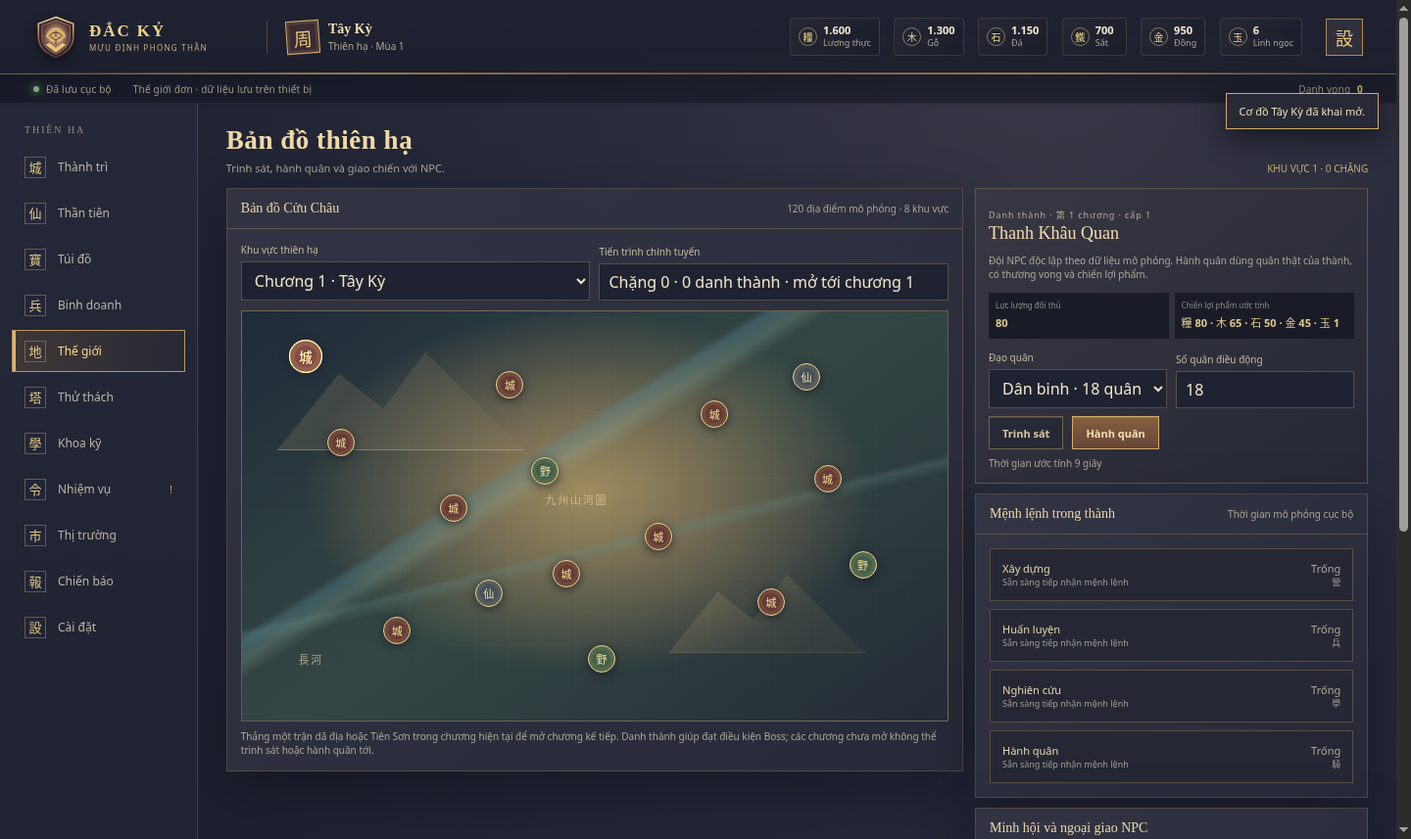
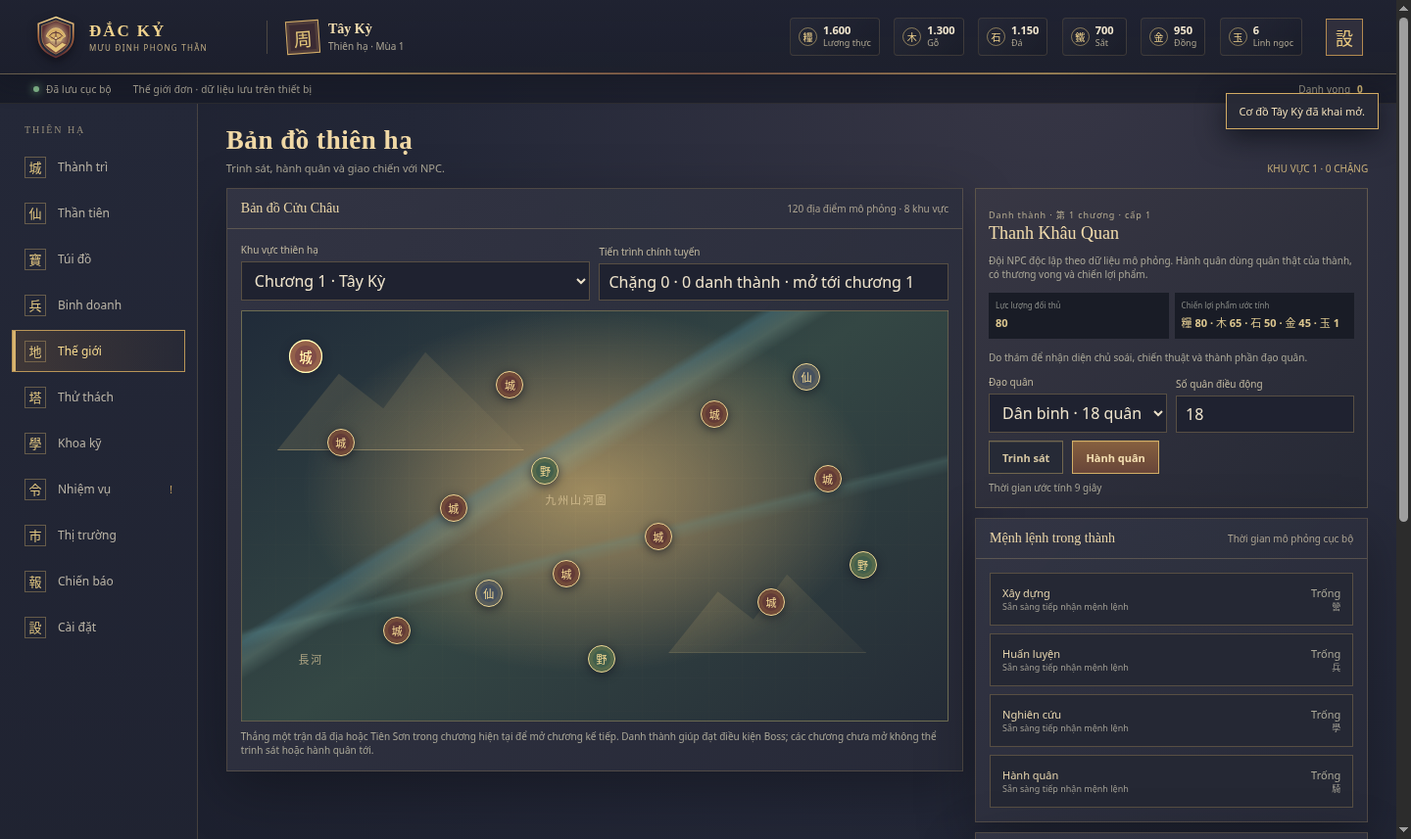
Add tactical NPC armies and scouting

Changed region(s): [[0.6875, 0.4247, 0.9688, 1.0], [0.8438, 0.6068, 0.9688, 0.7888]]

diff --git a/DackyMobile/src/ui.js b/DackyMobile/src/ui.js
@@ -211,11 +211,14 @@ function worldScreen(state, uiState) {
   const nodes = WORLD_NODES.filter(n=>n.chapter===chapter);
   const selected = nodes.find(n=>n.id===uiState.nodeId) || nodes[0];
   if (selected && uiState.nodeId !== selected.id) uiState.nodeId = selected.id;
+  const scouted=state.world.scouted.includes(selected.id);
+  const scoutCost=Math.max(2,Math.ceil(Math.max(4,12+selected.chapter*3-(state.levels.watch||0))*(1-Math.min(0.36,(state.technologies['tech-18']||0)*0.012))));
+  const enemyIntel=scouted?`<section class="recon-intel"><b>Chủ soái: ${esc(selected.enemy.commander)}</b><span>Đấu pháp: ${esc(selected.enemy.tactic.name)}</span><span>${selected.enemy.formation.map(row=>`${esc(TROOPS.find(t=>t.id===row.unitId)?.name||row.unitId)} ${fmt(row.count)}`).join(' · ')}</span></section>`:'<div class="tiny muted recon-hint">Do thám để nhận diện chủ soái, chiến thuật và thành phần đạo quân.</div>';
   const pins = nodes.map((n,i)=>`<button class="map-node ${n.isBoss?'boss':n.kind==='Danh thành'?'':n.kind==='Dã địa'?'field':'mountain'} ${state.world.captures.includes(n.id)?'captured':''} ${selected.id===n.id?'selected':''}" style="left:${n.x}%;top:${n.y}%" data-action="selectNode" data-node="${n.id}" title="${esc(n.name)} · lực lượng ${fmt(n.power)}">${n.isBoss?'王':n.kind==='Danh thành'?'城':n.kind==='Dã địa'?'野':'仙'}</button>`).join('');
   const armyOptions = Object.entries(state.army).filter(([,n])=>n>0).map(([id,count])=>`<option value="${id}">${esc(TROOPS.find(t=>t.id===id)?.name||id)} · ${fmt(count)} quân</option>`).join('');
   const selectedTroop = state.army[Object.keys(state.army)[0]] || 0;
   const bossLocked = selected.isBoss && !state.world.campaignComplete && (state.stats.victories < 20 || state.stats.citiesCaptured < 7);
-  const target = `<article class="target-card"><span class="target-kind">${selected.kind} · 第 ${selected.chapter} chương · cấp ${selected.level}</span><h2 class="target-name">${esc(selected.name)}</h2><p class="tiny muted">${selected.isBoss ? state.world.campaignComplete ? 'Trụ Vương đã bại trận. Triều Ca vẫn mở để tái chiến và chinh phục endgame.' : 'Đại Boss chiến dịch. Cần 20 trận thắng và 7 danh thành; thắng trận này sẽ mở kết cục Phong Thần.' : 'Đội NPC độc lập theo dữ liệu mô phỏng. Hành quân dùng quân thật của thành, có thương vong và chiến lợi phẩm.'}</p><div class="target-stats"><div class="target-stat"><small>Lực lượng đối thủ</small><b>${fmt(selected.power)}</b></div><div class="target-stat"><small>Chiến lợi phẩm ước tính</small><b>${costText(selected.loot)}</b></div></div><div class="field-row"><div class="field"><label for="march-unit">Đạo quân</label><select id="march-unit" class="input">${armyOptions || '<option>Chưa có quân</option>'}</select></div><div class="field"><label for="march-count">Số quân điều động</label><input id="march-count" class="input" type="number" min="1" max="${selectedTroop}" value="${Math.min(18,selectedTroop)||1}" inputmode="numeric"></div></div><div class="field-row" style="margin-top:8px">${button('scout','Trinh sát',state.resources.gold<12+selected.chapter*3,'button ghost','data-node="'+selected.id+'"')}${button('march',selected.isBoss&&state.world.campaignComplete?'Tái chiến Triều Ca':'Hành quân',!armyCount(state)||!!state.queues.march||Boolean(bossLocked),'button','data-node="'+selected.id+'"')}</div><div class="tiny muted" style="margin-top:7px">${selected.isBoss&&bossLocked?`Tiến trình mở khóa: ${Math.min(20,state.stats.victories)} / 20 thắng · ${Math.min(7,state.stats.citiesCaptured)} / 7 thành.`:state.world.scouted.includes(selected.id)?'Đã do thám. ':''}${state.queues.march?'Đội quân hiện đang hành quân.':bossLocked?'': 'Thời gian ước tính '+formatDuration(Math.max(7000,(7+selected.chapter*1.7)*1000))}</div></article>`;
+  const target = `<article class="target-card"><span class="target-kind">${selected.kind} · 第 ${selected.chapter} chương · cấp ${selected.level}</span><h2 class="target-name">${esc(selected.name)}</h2><p class="tiny muted">${selected.isBoss ? state.world.campaignComplete ? 'Trụ Vương đã bại trận. Triều Ca vẫn mở để tái chiến và chinh phục endgame.' : 'Đại Boss chiến dịch. Cần 20 trận thắng và 7 danh thành; thắng trận này sẽ mở kết cục Phong Thần.' : 'Đội NPC độc lập theo dữ liệu mô phỏng. Hành quân dùng quân thật của thành, có thương vong và chiến lợi phẩm.'}</p><div class="target-stats"><div class="target-stat"><small>Lực lượng đối thủ</small><b>${fmt(selected.power)}</b></div><div class="target-stat"><small>Chiến lợi phẩm ước tính</small><b>${costText(selected.loot)}</b></div></div>${enemyIntel}<div class="field-row"><div class="field"><label for="march-unit">Đạo quân</label><select id="march-unit" class="input">${armyOptions || '<option>Chưa có quân</option>'}</select></div><div class="field"><label for="march-count">Số quân điều động</label><input id="march-count" class="input" type="number" min="1" max="${selectedTroop}" value="${Math.min(18,selectedTroop)||1}" inputmode="numeric"></div></div><div class="field-row" style="margin-top:8px">${button('scout',scouted?'Do thám lại':'Trinh sát',state.resources.gold<scoutCost,'button ghost','data-node="'+selected.id+'"')}${button('march',selected.isBoss&&state.world.campaignComplete?'Tái chiến Triều Ca':'Hành quân',!armyCount(state)||!!state.queues.march||Boolean(bossLocked),'button','data-node="'+selected.id+'"')}</div><div class="tiny muted" style="margin-top:7px">${selected.isBoss&&bossLocked?`Tiến trình mở khóa: ${Math.min(20,state.stats.victories)} / 20 thắng · ${Math.min(7,state.stats.citiesCaptured)} / 7 thành.`:scouted?'Đã do thám. ':''}${state.queues.march?'Đội quân hiện đang hành quân.':bossLocked?'': 'Thời gian ước tính '+formatDuration(Math.max(7000,(7+selected.chapter*1.7)*1000))}</div></article>`;
   return `<div class="world-layout"><section class="panel">${subheading('Bản đồ Cửu Châu','120 địa điểm mô phỏng · 8 khu vực')}<div class="panel-body"><div class="field-row" style="margin-bottom:10px"><div class="field"><label for="world-chapter">Khu vực thiên hạ</label><select id="world-chapter" class="input" data-change="chapter">${Array.from({length:8},(_,i)=>`<option value="${i+1}" ${chapter===i+1?'selected':''} ${i+1>unlocked?'disabled':''}>Chương ${i+1} · ${['Tây Kỳ','Thanh Khâu','Vân Mộng','Cửu Lê','Lạc Thủy','Bắc Minh','Phong Lăng','Quy Khư'][i]}${i+1>unlocked?' · chưa mở':''}</option>`).join('')}</select></div><div class="field"><label>Tiến trình chính tuyến</label><div class="input">Chặng ${fmt(state.world.storyStage)} · ${state.world.captures.length} danh thành · mở tới chương ${unlocked}</div></div></div><div class="world-map"><div class="map-river"></div><div class="map-mountain"></div><div class="map-mountain m2"></div><span class="map-label" style="left:43%;top:44%">九州山河圖</span><span class="map-label" style="left:8%;top:83%">長河</span>${pins}</div><div class="tiny muted" style="margin-top:8px">Thắng một trận dã địa hoặc Tiên Sơn trong chương hiện tại để mở chương kế tiếp. Danh thành giúp đạt điều kiện Boss; các chương chưa mở không thể trinh sát hoặc hành quân tới.</div></div></section><aside class="map-side">${target}${queuePanel(state,Date.now())}<section class="panel">${subheading('Ngoại giao và liên minh NPC')}<div class="panel-body"><div class="hint">V1.0 ưu tiên chơi đơn ngoại tuyến. Thương nhân, bang hội và đối thủ là NPC mô phỏng; không có người chơi trực tiếp hoặc dịch vụ nhiều người.</div><div class="field-row" style="margin-top:9px">${button('view-market','Giao thương NPC',false,'button small')}${button('view-quests','Chính tuyến',false,'button ghost small')}</div></div></section></aside></div>`;
 }
 
@@ -261,7 +264,10 @@ function marketScreen(state) {
 }
 
 function reportsScreen(state) {
-  const items=state.reports.map(r=>`<article class="report-card"><div class="report-head"><b>${esc(r.target||'Chiến dịch')}</b><span class="report-result ${r.victory?'win':'loss'}">${r.victory?'Đại thắng':'Rút lui'}</span></div><div class="report-body"><div class="report-tactics"><span class="tag">${r.type==='duel'?'Đấu pháp thần tiên':'Hành quân quân đội'}</span><span class="tag">Sức ta ${fmt(r.ownPower||0)}</span><span class="tag">Đối thủ ${fmt(r.enemyPower||0)}</span>${r.rounds?.length?`<span class="tag">${r.rounds.length} hiệp</span>`:''}</div>${r.heroSkills?.length?`<p>Pháp môn đội hình: ${r.heroSkills.map(esc).join(' · ')}</p>`:''}<p>Quân điều động: ${Object.entries(r.troopsSent||{}).map(([id,n])=>`${esc(TROOPS.find(t=>t.id===id)?.name||id)} ${fmt(n)}`).join(' · ')||'Đội hình thần tiên'}.</p><p>Thương vong: ${Object.entries(r.dead||{}).map(([id,n])=>`${esc(TROOPS.find(t=>t.id===id)?.name||id)} ${fmt(n)}`).join(' · ')||'không'}${Object.values(r.wounded||{}).reduce((a,n)=>a+n,0)?` · bị thương ${fmt(Object.values(r.wounded).reduce((a,n)=>a+n,0))}`:''}</p><p>Chiến lợi phẩm: ${r.loot&&Object.keys(r.loot).length?costText(r.loot):'không có'} · ${r.evidence||CONTENT_EVIDENCE.status}</p>${r.rounds?.length?`<details><summary>Diễn biến ${r.rounds.length} hiệp</summary><p>${r.rounds.map(x=>`Hiệp ${x.round}: ta gây ${fmt(x.ownDamage)}, chịu ${fmt(x.enemyDamage)}; sĩ khí ${x.ownMorale}%.`).join('<br>')}</p></details>`:''}</div></article>`).join('');
+  const items=state.reports.map(r=>{
+    const enemyUnits=(rows,key)=>Object.entries(rows||{}).map(([id,n])=>`${esc(TROOPS.find(t=>t.id===id)?.name||id)} ${fmt(n)}`).join(' · ')||'không';
+    return `<article class="report-card"><div class="report-head"><b>${esc(r.target||'Chiến dịch')}</b><span class="report-result ${r.victory?'win':'loss'}">${r.victory?'Đại thắng':'Rút lui'}</span></div><div class="report-body"><div class="report-tactics"><span class="tag">${r.type==='duel'?'Đấu pháp thần tiên':'Hành quân quân đội'}</span><span class="tag">Sức ta ${fmt(r.ownPower||0)}</span><span class="tag">Đối thủ ${fmt(r.enemyPower||0)}</span>${r.rounds?.length?`<span class="tag">${r.rounds.length} hiệp</span>`:''}</div>${r.heroSkills?.length?`<p>Pháp môn đội hình: ${r.heroSkills.map(esc).join(' · ')}</p>`:''}${r.enemyCommander?`<p>Chủ soái NPC: ${esc(r.enemyCommander)} · chiến thuật ${esc(r.enemyTactic||'dã chiến')}</p><p>Đội hình địch: ${enemyUnits(Object.fromEntries((r.enemyFormation||[]).map(row=>[row.unitId,row.count])))}</p><p>Tổn thất địch: ${enemyUnits(r.enemyCasualties)}</p>`:''}<p>Quân điều động: ${Object.entries(r.troopsSent||{}).map(([id,n])=>`${esc(TROOPS.find(t=>t.id===id)?.name||id)} ${fmt(n)}`).join(' · ')||'Đội hình thần tiên'}.</p><p>Thương vong: ${enemyUnits(r.dead)}${Object.values(r.wounded||{}).reduce((a,n)=>a+n,0)?` · bị thương ${fmt(Object.values(r.wounded).reduce((a,n)=>a+n,0))}`:''}</p><p>Chiến lợi phẩm: ${r.loot&&Object.keys(r.loot).length?costText(r.loot):'không có'} · ${r.evidence||CONTENT_EVIDENCE.status}</p>${r.rounds?.length?`<details><summary>Diễn biến ${r.rounds.length} hiệp</summary><p>${r.rounds.map(x=>`Hiệp ${x.round}: ta gây ${fmt(x.ownDamage)}, chịu ${fmt(x.enemyDamage)}; sĩ khí ${x.ownMorale}%${x.enemyMorale!==undefined?` · địch ${x.enemyMorale}%`:''}.`).join('<br>')}</p></details>`:''}</div></article>`;
+  }).join('');
   return `<section class="panel">${subheading(`Chiến báo · ${state.reports.length} báo cáo`,'Phân giải trận đấu mô phỏng, lưu cục bộ')}<div class="panel-body"><div class="hint" style="margin-bottom:10px">Tất cả trận chiến được tính cục bộ và ghi vào save; thương vong, thương binh, thưởng và danh vọng chỉ áp dụng một lần khi hàng đợi hành quân hoàn tất.</div><div class="report-list">${items||'<div class="empty-state"><strong>Chưa có chiến báo</strong>Hành quân tới dã địa hoặc khiêu chiến tháp để bắt đầu.</div>'}</div></div></section>`;
 }
 

diff --git a/DackyMobile/src/engine.js b/DackyMobile/src/engine.js
@@ -367,9 +367,12 @@ function resolveArmyCombat(state, node, troops, seed) {
   const heroList = state.heroes.filter(h => h.assigned).slice(0, 3);
   const heroProfile=heroCombatProfile(heroList);
   const troopRows = Object.entries(troops).map(([id, count]) => ({ unit: TROOPS.find(t => t.id === id), count })).filter(x => x.unit && x.count > 0);
+  const enemyRows=(node.enemy?.formation||[]).map(row=>({unit:TROOPS.find(t=>t.id===row.unitId),count:row.count})).filter(row=>row.unit&&row.count>0);
   const total = troopRows.reduce((n, row) => n + row.count, 0);
   const roles = troopRows.map(row => row.unit.role);
+  const enemyRoles=enemyRows.map(row=>row.unit.role);
   const countered = troopRows.filter(row => roles.includes(row.unit.counter)).length;
+  const enemyCountered=enemyRows.filter(row=>enemyRoles.includes(row.unit.counter)).length;
   const formationTech=state.technologies['tech-15']||0;
   const formationBonus=1+Math.min(0.42,formationTech*0.003+countered*(0.025+formationTech*0.003));
   const heroBonus = heroList.reduce((n, h) => n + heroPower(h, state), 0) * 0.55;
@@ -377,18 +380,28 @@ function resolveArmyCombat(state, node, troops, seed) {
   const treatyBonus=state.world.treaties.includes(node.id)?0.88:1;
   const enemyPower = Math.max(80, node.power * (1 + Math.max(0, node.chapter - 1) * 0.035) * treatyBonus);
   const initiative = troopRows.reduce((n, row) => n + row.unit.speed * row.count, 0) / Math.max(1, total);
+  const enemyTotal=enemyRows.reduce((n,row)=>n+row.count,0);
+  const enemyInitiative=enemyRows.reduce((n,row)=>n+row.unit.speed*row.count,0)/Math.max(1,enemyTotal);
+  const tactics={
+    ambush:{opening:0.2}, fortress:{health:1.18,defense:0.06}, charge:{opening:0.18},
+    arcane:{attack:0.09}, mandate:{health:1.14,attack:0.08,defense:0.04}
+  };
+  const tactic=tactics[node.enemy?.tactic?.id]||{};
+  const enemyHealthBase=enemyPower*(1+Math.min(0.16,enemyCountered*0.025))*(tactic.health||1);
   const rounds = [];
   let ownHealth = ownPower * (1 + state.morale / 500 + heroProfile.bonuses.formation);
-  let enemyHealth = enemyPower;
+  let enemyHealth = enemyHealthBase;
   let round = 0;
   while (ownHealth > 0 && enemyHealth > 0 && round < 6) {
     round++;
-    const ownDamage = Math.max(1, ownPower * (0.19 + rng() * 0.11) * (1+heroProfile.bonuses.attack+(round===1?heroProfile.bonuses.opening:0)) * (round === 1 && initiative > 10 ? 1.13 : 1));
+    const enemyDefense=Math.min(0.24,enemyCountered*0.025+(tactic.defense||0));
+    const ownDamage = Math.max(1, ownPower * (0.19 + rng() * 0.11) * (1+heroProfile.bonuses.attack+(round===1?heroProfile.bonuses.opening:0)) * (1-enemyDefense) * (round === 1 && initiative > 10 ? 1.13 : 1));
     const researchDefense=Math.min(0.12,(state.technologies['tech-11']||0)*0.004);
-    const enemyDamage = Math.max(1, enemyPower * (0.17 + rng() * 0.12) * Math.max(0.55,1-heroProfile.bonuses.defense-researchDefense) * (round === 1 && initiative < 6 ? 1.12 : 1));
+    const npcOpening=round===1&&enemyInitiative>initiative?(tactic.opening||0.1):0;
+    const enemyDamage = Math.max(1, enemyPower * (0.17 + rng() * 0.12) * (1+(tactic.attack||0)+npcOpening) * Math.max(0.55,1-heroProfile.bonuses.defense-researchDefense) * (round === 1 && initiative < 6 ? 1.12 : 1));
     enemyHealth -= ownDamage;
     ownHealth -= enemyDamage;
-    rounds.push({ round, ownDamage: Math.round(ownDamage), enemyDamage: Math.round(enemyDamage), ownMorale: Math.max(0, Math.round(ownHealth / ownPower * 100)) });
+    rounds.push({ round, ownDamage: Math.round(ownDamage), enemyDamage: Math.round(enemyDamage), ownMorale: Math.max(0, Math.round(ownHealth / ownPower * 100)), enemyMorale:Math.max(0,Math.round(enemyHealth/enemyHealthBase*100)) });
   }
   const victory = enemyHealth <= 0 || (ownHealth > enemyHealth * 0.72 && ownHealth > 0);
   const casualtyRatio = clamp((victory ? 0.035 + (enemyPower / ownPower) * 0.07 : 0.24 + rng() * 0.2) - Math.min(0.04,(state.levels.wall||0)*0.001), 0.025, 0.62);
@@ -399,7 +412,12 @@ function resolveArmyCombat(state, node, troops, seed) {
     if (lost) dead[row.unit.id] = lost - injured;
     if (injured) wounded[row.unit.id] = injured;
   }
-  return { victory, ownPower: Math.round(ownPower), enemyPower: Math.round(enemyPower), rounds, dead, wounded, total, heroNames: heroList.map(h => HEROES.find(def => def.id === h.id)?.name || h.id), heroSkills:heroProfile.names, skillBonuses:heroProfile.bonuses };
+  const enemyCasualtyRatio=clamp(victory?0.22+ownPower/Math.max(1,enemyPower)*0.13:0.08+rng()*0.05,0.06,0.55);
+  const enemyCasualties=Object.fromEntries(enemyRows.map(row=>[row.unit.id,Math.min(row.count,Math.floor(row.count*enemyCasualtyRatio*(0.8+rng()*0.4))) ]).filter(([,count])=>count>0));
+  return { victory, ownPower: Math.round(ownPower), enemyPower: Math.round(enemyPower), rounds, dead, wounded, total,
+    enemyCommander:node.enemy?.commander||'Đội quân NPC',enemyTactic:node.enemy?.tactic?.name||'Đội hình dã chiến',
+    enemyFormation:enemyRows.map(row=>({unitId:row.unit.id,count:row.count})),enemyCasualties,
+    heroNames: heroList.map(h => HEROES.find(def => def.id === h.id)?.name || h.id), heroSkills:heroProfile.names, skillBonuses:heroProfile.bonuses };
 }
 
 function settleMarch(state, q, now) {
@@ -759,7 +777,7 @@ export function doAction(state, action, now = Date.now()) {
       const scoutBaseCost=Math.max(4,12+node.chapter*3-(s.levels.watch||0));
       debit(s,{gold:Math.max(2,Math.ceil(scoutBaseCost*(1-Math.min(0.36,(s.technologies['tech-18']||0)*0.012))))});
       if (!s.world.scouted.includes(node.id)) s.world.scouted.push(node.id);
-      note(s, `Thám báo đã ghi nhận lực lượng khoảng ${Math.floor(node.power / 10) * 10} tại ${node.name}.`);
+      note(s, `Thám báo xác định ${node.enemy.commander} · ${node.enemy.tactic.name} · ${node.enemy.formation.map(row=>`${TROOPS.find(t=>t.id===row.unitId)?.name||row.unitId} ${row.count}`).join(', ')} tại ${node.name}.`);
       break;
     }
     case 'claimQuest': {

diff --git a/DackyMobile/src/catalog.js b/DackyMobile/src/catalog.js
@@ -190,6 +190,35 @@ export const QUESTS = Object.freeze([...campaignQuests,...longTailQuests,campaig
 
 const regionPrefixes = ['Thanh Khâu','Vân Mộng','Cửu Lê','Lạc Thủy','Bắc Minh','Tây Kỳ','Phong Lăng','Quy Khư','Hoàng Hà','Thái Hư','Tử Tiêu','Huyền Cơ','Bạch Lộc','Thương Sơn','Côn Ngô'];
 const regionSuffixes = ['Quan','Trấn','Đài','Cốc','Sơn','Bến','Lĩnh','Thành'];
+const npcOfficerNames=['Ân Thủ Nghĩa','Bào Huyền Chân','Bình Trấn Hải','Cao Cảnh Đức','Cố Trường Phong','Cung Tử An','Đào Như Sơn','Đổng Huyền Minh','Dư Bạch Thạch','Đường Tĩnh Viễn','Hàn Vân Khách','Hồ Ngọc Đường','Hoa Tử Hư','Khâu Trọng Lân','Lâm Tùng Hạc','Mã Thiên Hành','Mạnh Huyền Sách','Ngụy Thanh Sơn','Phùng Dạ Bạch','Tạ Linh Quân','Tần Vô Cữu','Vương Phá Quân','Trịnh Minh Đạo','Chu Hạc Niên'];
+const npcTactics=Object.freeze({
+  ambush:'Phục kích', fortress:'Thủ thành', charge:'Kỵ trận xung phong', arcane:'Pháp trận', mandate:'Hôn ám triều cương'
+});
+const npcRoles=Object.freeze({
+  'Danh thành':['bộ binh','xạ thủ','công thành'],
+  'Dã địa':['kỵ binh','trinh sát','xạ thủ'],
+  'Tiên sơn':['đạo binh','bộ binh','xạ thủ'],
+  'Boss chiến dịch':['bộ binh','kỵ binh','xạ thủ','đạo binh','công thành']
+});
+function generatedNpcForce(index,chapter,kind,power){
+  const targetTier=Math.min(7,Math.ceil(chapter*7/8));
+  const roles=npcRoles[kind];
+  const targetPower=Math.max(80,power*(1+Math.max(0,chapter-1)*0.035));
+  const weights=kind==='Boss chiến dịch'?[0.31,0.23,0.18,0.18,0.1]:kind==='Danh thành'?[0.43,0.34,0.23]:[0.42,0.34,0.24];
+  const formation=roles.map((role,slot)=>{
+    let choices=TROOPS.filter(unit=>unit.role===role&&unit.tier<=targetTier);
+    if(!choices.length)choices=TROOPS.filter(unit=>unit.role===role);
+    const highestTier=Math.max(...choices.map(unit=>unit.tier));
+    choices=choices.filter(unit=>unit.tier===highestTier);
+    const unit=choices[(index+slot*5+chapter)%choices.length];
+    const unitPower=unit.attack+unit.defense*0.85+unit.morale*0.08;
+    return {unitId:unit.id,count:Math.max(1,Math.round(targetPower*weights[slot]/unitPower))};
+  });
+  const tacticId=kind==='Boss chiến dịch'?'mandate':kind==='Danh thành'?'fortress':kind==='Dã địa'?['ambush','charge','arcane'][index%3]:['arcane','ambush','fortress'][index%3];
+  const title=kind==='Danh thành'?'Trấn thủ':kind==='Dã địa'?'Thảo khấu':kind==='Tiên sơn'?'Thủ sơn tiên trưởng':'Đại vương';
+  const commander=kind==='Boss chiến dịch'?'Đế Tân · Trụ Vương':`${title} ${npcOfficerNames[(index*7+chapter)%npcOfficerNames.length]}`;
+  return {commander,tactic:{id:tacticId,name:npcTactics[tacticId]},formation};
+}
 export const WORLD_NODES = Object.freeze(Array.from({ length: 120 }, (_, i) => {
   const chapterIndex=Math.floor(i/15);
   const localIndex=i%15;
@@ -201,9 +230,11 @@ export const WORLD_NODES = Object.freeze(Array.from({ length: 120 }, (_, i) => {
   const chapter = chapterIndex + 1;
   const generatedName = `${regionPrefixes[Math.floor(i / regionSuffixes.length) % regionPrefixes.length]} ${regionSuffixes[i % regionSuffixes.length]}`;
   const name = isBoss ? 'Triều Ca · Trụ Vương' : generatedName;
-  return { id: `node-${String(i + 1).padStart(3,'0')}`, name, kind: isBoss ? 'Boss chiến dịch' : isCity ? 'Danh thành' : isField ? 'Dã địa' : 'Tiên sơn', isBoss, chapter,
+  const kind=isBoss?'Boss chiến dịch':isCity?'Danh thành':isField?'Dã địa':'Tiên sơn';
+  const power=isBoss?8400:80+i*34;
+  return { id: `node-${String(i + 1).padStart(3,'0')}`, name, kind, isBoss, chapter,
     level: Math.max(1, Math.floor(i / 4) + 1), x: 9 + (i * 37) % 82, y: 11 + (i * 53) % 76,
-    power: isBoss ? 8400 : 80 + i * 34, loot: { food: isBoss ? 3200 : 80 + i * 12, timber: isBoss ? 2400 : 65 + i * 9, stone: isBoss ? 2000 : 50 + i * 8, gold: isBoss ? 3600 : 45 + i * 8, jade: isBoss ? 8 : i % 7 === 0 ? 1 : 0 },
+    power, enemy:generatedNpcForce(i,chapter,kind,power), loot: { food: isBoss ? 3200 : 80 + i * 12, timber: isBoss ? 2400 : 65 + i * 9, stone: isBoss ? 2000 : 50 + i * 8, gold: isBoss ? 3600 : 45 + i * 8, jade: isBoss ? 8 : i % 7 === 0 ? 1 : 0 },
     evidence: 'SIMULATED' };
 }));
 

diff --git a/DackyMobile/tests/engine.test.js b/DackyMobile/tests/engine.test.js
@@ -312,6 +312,26 @@ test('eight-chapter world catalog is balanced and chapters unlock through field 
   assert.equal(state.queues.march.nodeId,'node-016');
 });
 
+test('NPC world nodes expose distinct formations and scouting persists battle intelligence', () => {
+  assert.ok(WORLD_NODES.every(node=>node.enemy?.commander&&node.enemy?.tactic?.id&&node.enemy?.formation?.length>=3));
+  assert.ok(new Set(WORLD_NODES.map(node=>node.enemy.tactic.id)).size>=4);
+  assert.ok(WORLD_NODES.every(node=>node.enemy.formation.every(row=>TROOPS.some(t=>t.id===row.unitId)&&row.count>0)));
+  const now=1_800_000_000_000;
+  let state=createNewGame('Triều Ca',now);
+  state=doAction(state,{type:'scout',nodeId:'node-011'},now+1);
+  assert.ok(state.world.scouted.includes('node-011'));
+  assert.ok(state.notifications[0].includes(WORLD_NODES[10].enemy.commander));
+  state.army={'troop-01':100_000,'troop-10':100_000,'troop-23':100_000};
+  state=doAction(state,{type:'march',nodeId:'node-011',troops:{'troop-01':10_000,'troop-10':10_000,'troop-23':10_000}},now+2);
+  state=advance(state,state.queues.march.finishAt+1).state;
+  const battle=state.reports[0];
+  assert.equal(battle.enemyCommander,WORLD_NODES[10].enemy.commander);
+  assert.equal(battle.enemyTactic,WORLD_NODES[10].enemy.tactic.name);
+  assert.equal(battle.enemyFormation.length,3);
+  assert.ok(Object.keys(battle.enemyCasualties).length>0);
+  assert.ok(battle.rounds.every(round=>round.enemyMorale>=0&&round.enemyMorale<=100));
+});
+
 
 test('final boss is gated and a first victory records the campaign ending', () => {
   const now=1_800_000_000_000;

diff --git a/DackyMobile/styles.css b/DackyMobile/styles.css
@@ -186,6 +186,9 @@ body.reduce-motion *, body.reduce-motion *:before, body.reduce-motion *:after { 
 .target-stat { padding:7px; background:#191c26; }
 .target-stat small { display:block; color:#888b86; font-size:8px; }
 .target-stat b { color:#ddc78f; font-size:11px; }
+.recon-intel { display:grid; gap:4px; margin:8px 0 11px; padding:8px; border-left:2px solid #bd9b5e; background:#181b2580; color:#bdb6a4; font-size:9px; line-height:1.45; }
+.recon-intel b { color:#e2d1aa; font-size:10px; }
+.recon-hint { margin:8px 0 11px; }
 .march-support { margin:8px 0; padding:8px; border:1px solid #d4b16a36; background:#181b254a; }
 .march-support summary { color:#e0c78e; font-size:10px; cursor:pointer; }
 .march-support-list { display:grid; gap:5px; margin:8px 0; }

diff --git a/DackyMobile/PROGRESS.md b/DackyMobile/PROGRESS.md
@@ -4,7 +4,7 @@ Cập nhật: 2026-11-24 · Nhánh: feature/dacky-mobile-complete-20261124
 
 ## Checkpoint
 
-- HEAD lúc bắt đầu: 4023325d441a7f818f7346586b1ee6e19943a5cc (origin/feature/dacky-mobile-complete-20261124). Các checkpoint gần: 319480ff27224f26c6d6283bbc7fd738dd3b520f, bc8b3bc6e6fe91e2f15e2e73114f438ce26f6fe3, 0fb5cf62a64af15703e96c95d2444e6f7331216e, 86dce96e1247f4e927b9037d85febd8defc848e0; batch thành phụ bắt đầu tại 86dce96e1247f4e927b9037d85febd8defc848e0, batch chương hiện tại tại ffcfac99b6362b9496bb5615a4904492adf0299f.
+- HEAD đầu lô NPC: 0492d85675ca66c974cb367619afaa0ec86edbf0 (đã có trên origin/feature/dacky-mobile-complete-20261124). Các checkpoint gameplay trước gồm 319480ff27224f26c6d6283bbc7fd738dd3b520f, bc8b3bc6e6fe91e2f15e2e73114f438ce26f6fe3, 0fb5cf62a64af15703e96c95d2444e6f7331216e, 86dce96e1247f4e927b9037d85febd8defc848e0; lô thành phụ tại ffcfac99b6362b9496bb5615a4904492adf0299f; lô chia/gating 8 chương tại 0492d85675ca66c974cb367619afaa0ec86edbf0.
 - Codebase web độc lập, offline-first: thành trì, sáu tài nguyên, 21 công trình tới cấp 30, sản xuất theo giờ, queue xây/nghiên cứu/huấn luyện/hành quân, 39 binh chủng mô phỏng, đủ 540 thần tiên mô phỏng, túi đồ/rèn, khoa kỹ, 1.158 nhiệm vụ, 120 địa điểm chiến dịch có Boss Trụ Vương và 624 Tiên Sơn thử thách riêng, chiến báo, Phong Thần Tháp và 5 cửa Bất Chu.
 - Chiến dịch mô phỏng có 8 chương, 1.158 mục tiêu, mở Boss Trụ Vương sau 20 thắng/7 thành; thắng đầu lưu cờ kết cục, thưởng duy nhất và cho phép tiếp tục endgame.
 - Gameplay loop đã nối: nâng công trình → huấn luyện/chiêu mộ/trang bị → hành quân nhiều stack → combat/tổn thất/loot → nâng cấp/nhiệm vụ → save/reload. Capture thành phụ, sản lượng bổ sung, minh hội NPC và minh ước NPC có runtime. Mô hình gameplay là độc lập `SIMULATED`, chưa đối chiếu client Mobile.
@@ -13,13 +13,13 @@ Cập nhật: 2026-11-24 · Nhánh: feature/dacky-mobile-complete-20261124
 - Khoa kỹ 19 nhánh/570 cấp nay tác động vào kinh tế, xây dựng, huấn luyện, quân chuyên môn, combat, hồi phục, hành quân, thần tiên, trinh sát và giao thương/ngoại giao.
 - Chỉ dẫn tân thủ 7 mốc tự kiểm tra tiến trình xây/nghiên cứu/chiêu mộ/trang bị/huấn luyện/chiến đấu; các nút hướng dẫn thực thi gameplay thật và chỉ tiến bước khi đạt điều kiện.
 - Thành phụ đã có giao diện quản lý, nâng cấp qua hàng xây dựng, mở theo cấp Tử Vi và tăng năm loại sản lượng theo cấp.
-- 120 điểm thế giới được tái phân bổ theo tám chương, đủ 75 thành/30 dã địa/14 Tiên Sơn/1 Boss; thắng dã địa hoặc Tiên Sơn mới mở chương kế tiếp; march/scout/ngoại giao bị khóa theo tiến độ.
+- 120 điểm thế giới được tái phân bổ theo tám chương, đủ 75 thành/30 dã địa/14 Tiên Sơn/1 Boss; thắng dã địa hoặc Tiên Sơn mới mở chương kế tiếp; march/scout/ngoại giao bị khóa theo tiến độ. Lô NPC thêm chủ soái, 3–5 stack quân, năm chiến thuật có hiệu lực, do thám mở thông tin và chiến báo ghi quân địch/tổn thất.
 
 ## Kiểm chứng thực tế
 
-- `npm test`: PASS 19/19 engine tests, gồm tutorial đầu-cuối, thành phụ, phân phối/gating 8 chương, catalog, Tiên Sơn/Boss, mua/dùng vật phẩm, XP-kỹ năng, pháp môn combat, 19 nhánh khoa kỹ và thuế/dân tâm.
+- `node tests/engine.test.js`: PASS 20/20, thêm kiểm tra 120 đội hình NPC, thông tin do thám lưu và dữ liệu chủ soái/chiến thuật/tổn thất trong chiến báo.
 - `npm run build`: PASS; build Web, `dist/offline.html` và `dist/data/dacky-game-data.simulated.v1.json`; kiểm tra JSON xác nhận 4.676 record SIMULATED trên 8 bảng.
-- Chromium integration: PASS onboarding và thẻ chỉ dẫn, 21 công trình, quản lý thành phụ đã chiếm, khóa chương bản đồ, 11 màn hình, đổi chính sách thuế, phân trang/mua vật phẩm, nâng công trình, chiêu mộ, trang bị, huấn luyện, hành quân nhiều stack, loot/chiến báo, IndexedDB reload, viewport 390×844 và 844×390; 0 lỗi console/runtime. Ảnh ở `qa/screenshots/`.
+- Chromium integration: PASS onboarding, 21 công trình, 11 màn hình, thuế, danh mục/purchase, xây dựng, chiêu mộ/trang bị, huấn luyện, hành quân nhiều stack, loot/chiến báo, thành phụ, save/reload, 390×844 và 844×390; 0 lỗi console/runtime. Smoke riêng xác nhận thông tin NPC bị ẩn trước trinh sát và hiện chủ soái/đấu pháp/đạo quân sau trinh sát. Ảnh ở `qa/screenshots/`.
 - PWA: PASS mở lại entrypoint khi tắt mạng và shell đã được cache.
 - Hạn chế môi trường: Chromium trả `chrome-error://chromewebdata/` với URL `file://.../offline.html`; bundle inline đã qua syntax check. Thiếu Android SDK/Gradle nên APK/AAB chưa build. Không tuyên bố V1.0 hoàn thành.
 
@@ -28,15 +28,15 @@ Cập nhật: 2026-11-24 · Nhánh: feature/dacky-mobile-complete-20261124
 - P0: nguồn Mobile công khai và nguồn legacy không truy cập được vì HTTP proxy 403; không có snapshot A1. Chưa có record nguồn xác minh. Cần dữ liệu hợp pháp có phiên bản và kiểm tra khác biệt Mobile/legacy.
 - P1: thuế/dân tâm, tăng dân số, hàng đợi và thành phụ có runtime; còn thiếu chiều sâu đầy đủ cho công trình/tiến trình và hướng dẫn tân thủ.
 - P2: roster 540/540 hồ sơ là mô phỏng; mua/dùng vật phẩm, XP, mốc kỹ năng, trang bị/rèn đã nối; dữ liệu nguồn, linh căn và các hệ phát triển còn thiếu.
-- P3: 39 binh chủng mô phỏng; pháp môn có tác động và combat deterministic có thương vong/loot; chưa xác minh công thức nguồn hoặc đầy đủ tương khắc/đội hình.
-- P4: 120 điểm NPC, tháp thủ tục, 5 cửa Bất Chu, nhiệm vụ, thương nhân, minh hội/ngoại giao NPC có runtime; 1.158 nhiệm vụ/624 Tiên Sơn runtime đã mô phỏng đủ số lượng; nội dung nguồn và tọa độ xác minh còn thiếu.
+- P3: 39 binh chủng mô phỏng; combat deterministic có stack, tương khắc, chiến thuật NPC, thương vong và loot; cần cân bằng sâu vai trò/công thức và xác minh nguồn Mobile.
+- P4: 120 điểm NPC có chủ soái/đội hình/đấu pháp và trinh sát, tháp procedural, 5 cửa Bất Chu, nhiệm vụ, thương nhân, minh hội/ngoại giao NPC có runtime; 1.158 nhiệm vụ/624 Tiên Sơn runtime đã mô phỏng đủ số lượng; nội dung nguồn và tọa độ xác minh còn thiếu.
 - P5: có SVG gốc cho thành, chân dung và huy hiệu; thiếu animation combat, atlas binh chủng, âm thanh và nội dung hình ảnh đầy đủ.
 - P6: Web/PWA/offline HTML build được; `capacitor.config.json` có nhưng native project/APK/AAB chưa có do thiếu Android SDK/Gradle.
 - P7: QA Web tích hợp đã PASS; Android chưa kiểm tra. Chỉ các nội dung đã chạy mới được ghi PASS.
 
 ## Bước tiếp theo
 
-1. Tăng chiều sâu từng chương và NPC, nhịp nhiệm vụ, chiến thuật đội hình và hoạt động endgame; cân bằng từ đầu game tới Boss Trụ Vương và tiếp tục chinh phục.
+1. Nối nhiệm vụ chính tuyến thành chuỗi 8 chương có mở khóa/mục tiêu riêng; hoàn thiện nhịp nội dung, tương khắc binh chủng và lộ trình từ thành mới đến Boss/endgame NPC.
 2. Khi có Android SDK/Gradle, tạo project Capacitor native, build/cài APK và kiểm tra luồng cốt lõi.
 3. Khi dữ liệu nguồn được cung cấp hoặc proxy cho phép, xác minh Mobile riêng, nhập dữ liệu hợp pháp và cập nhật `DATA_COVERAGE.json`.
 4. Giữ nhánh feature/dacky-mobile-complete-20261124 làm checkpoint hiện tại. Tiếp tục bằng các mục P0–P7 còn mở; không merge, không force-push, không đụng Heroes/Mưu Định Tam Quốc.

diff --git a/DackyMobile/docs/GAMEPLAY_WIKI.md b/DackyMobile/docs/GAMEPLAY_WIKI.md
@@ -33,11 +33,11 @@ Roster có 540 hồ sơ thần tiên mô phỏng, hiển thị theo trang; Tiên
 
 ## Quân đội và combat
 
-Runtime có 39 loại binh chủng theo vai trò bộ binh, xạ thủ, kỵ binh, công thành, trinh sát và đạo binh. Quân huấn luyện vào kho thành sau khi queue kết thúc. Một lệnh hành quân có thể kết hợp nhiều loại quân; chọn số lượng chính và mở phần hỗ trợ để tận dụng tương khắc vai trò. Tốc độ, đội hình và sĩ khí điều chỉnh sức mạnh. Combat seeded tối đa sáu hiệp; chiến thắng ghi danh vọng/loot, quân chết mất, quân bị thương đi vào Hồi Xuân Đường.
+Runtime có 39 loại binh chủng theo vai trò bộ binh, xạ thủ, kỵ binh, công thành, trinh sát và đạo binh. Quân huấn luyện vào kho thành sau khi queue kết thúc. Một lệnh hành quân có thể kết hợp nhiều loại quân; chọn số lượng chính và mở phần hỗ trợ để tận dụng tương khắc vai trò. Tốc độ, đội hình và sĩ khí điều chỉnh sức mạnh. Combat seeded tối đa sáu hiệp; chiến thắng ghi danh vọng/loot, quân chết mất, quân bị thương đi vào Hồi Xuân Đường. Mỗi trong 120 địa điểm có chủ soái và đội NPC 3–5 binh chủng; do thám cho biết quân số và chiến thuật. Phục kích ưu tiên đòn mở đầu, thủ thành tăng sức bền, kỵ trận và pháp trận tăng sức đánh, Boss có cả phòng ngự lẫn công kích bổ sung. Đội hình địch, tổn thất và diễn biến từng hiệp được giữ trong chiến báo. Các thông số và chỉ huy là SIMULATED.
 
 ## Bản đồ và chiến dịch
 
-120 NPC được chia thành tám chương, mỗi chương 15 địa điểm gồm danh thành, dã địa và Tiên Sơn. Chương đầu mở sẵn; thắng ở dã địa hoặc Tiên Sơn trong chương đang mở mới tiến sang chương kế tiếp. Mục tiêu chương chưa mở không nhận trinh sát, hành quân hoặc ngoại giao. Trụ Vương cần mở tới chương tám, đạt 20 trận thắng và chiếm bảy danh thành; đây là điều kiện thiết kế SIMULATED.
+120 NPC được chia thành tám chương, mỗi chương 15 địa điểm gồm danh thành, dã địa và Tiên Sơn. Chương đầu mở sẵn; thắng ở dã địa hoặc Tiên Sơn trong chương đang mở mới tiến sang chương kế tiếp. Mục tiêu chương chưa mở không nhận trinh sát, hành quân hoặc ngoại giao. Do thám từng mục tiêu mở tên chủ soái, đấu pháp và từng stack quân trong save. Trụ Vương cần mở tới chương tám, đạt 20 trận thắng và chiếm bảy danh thành; đây là điều kiện thiết kế SIMULATED.
 
 ## Thử thách
 

diff --git a/DackyMobile/DECISIONS.md b/DackyMobile/DECISIONS.md
@@ -27,3 +27,4 @@
 - Chỉ dẫn tân thủ có bảy mốc dựa trên trạng thái gameplay đã lưu. Các hành động đề xuất gọi cùng action runtime và bước kế tiếp chỉ mở sau khi queue/trận thật hoàn tất; save cũ tự xác định lại bước từ thành tựu, không thể nhấn để bỏ qua.
 - Danh thành chiếm đóng trở thành thành phụ có thể nâng tới cấp 10 qua cùng hàng xây dựng; cấp thành phụ tăng cả năm sản lượng, và điều kiện Tử Vi Thành giới hạn cấp tiếp theo. Save queue xác thực thành phụ thuộc danh sách thành đã chiếm.
 - 120 điểm thế giới được chia thành tám chương, mỗi chương có 15 NPC với thành, dã địa và tiên sơn phân bổ. Thắng ở dã địa/Tiên Sơn của chương hiện tại mở chương tiếp theo; march, scout và ngoại giao chặn mục tiêu chưa mở. Điều kiện Boss cuối vẫn yêu cầu tiến trình chương, 20 trận thắng và bảy danh thành.
+- Mỗi địa điểm thế giới có chỉ huy NPC, 3–5 stack binh chủng và một chiến thuật riêng theo loại địa hình. Phục kích, thủ thành, xung phong, pháp trận và chiến thuật Boss làm thay đổi hiệp đầu, sức bền hoặc sát thương. Do thám mở đầy đủ đội hình; chiến báo lưu chủ soái, quân số địch và thương vong. Thành phần/hệ số vẫn là SIMULATED.
